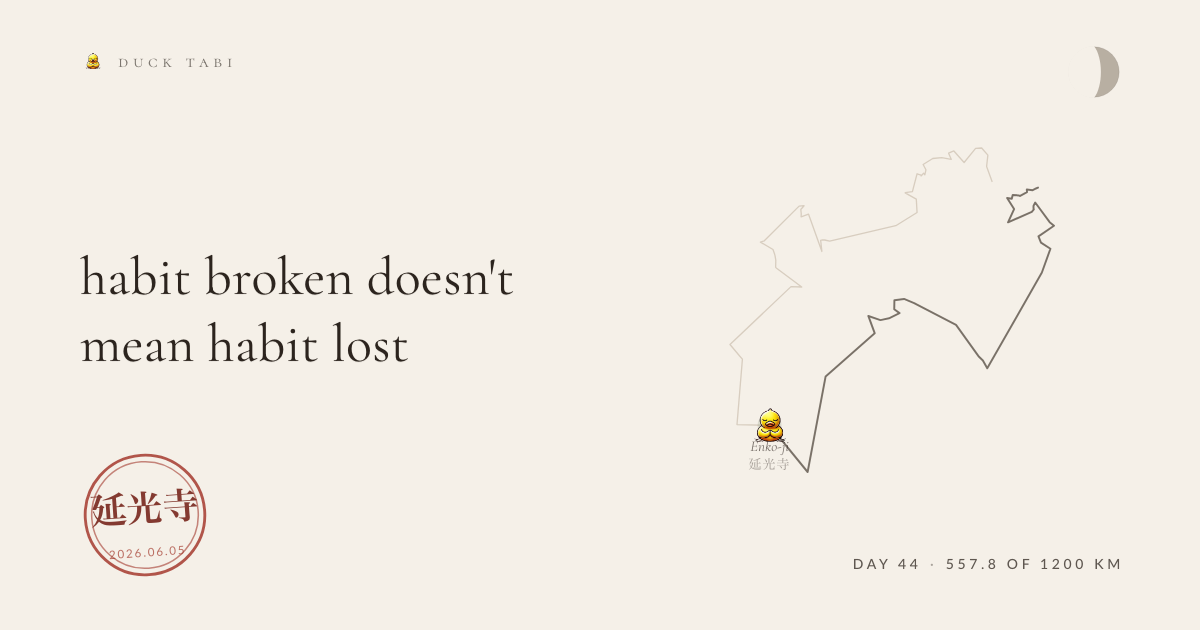
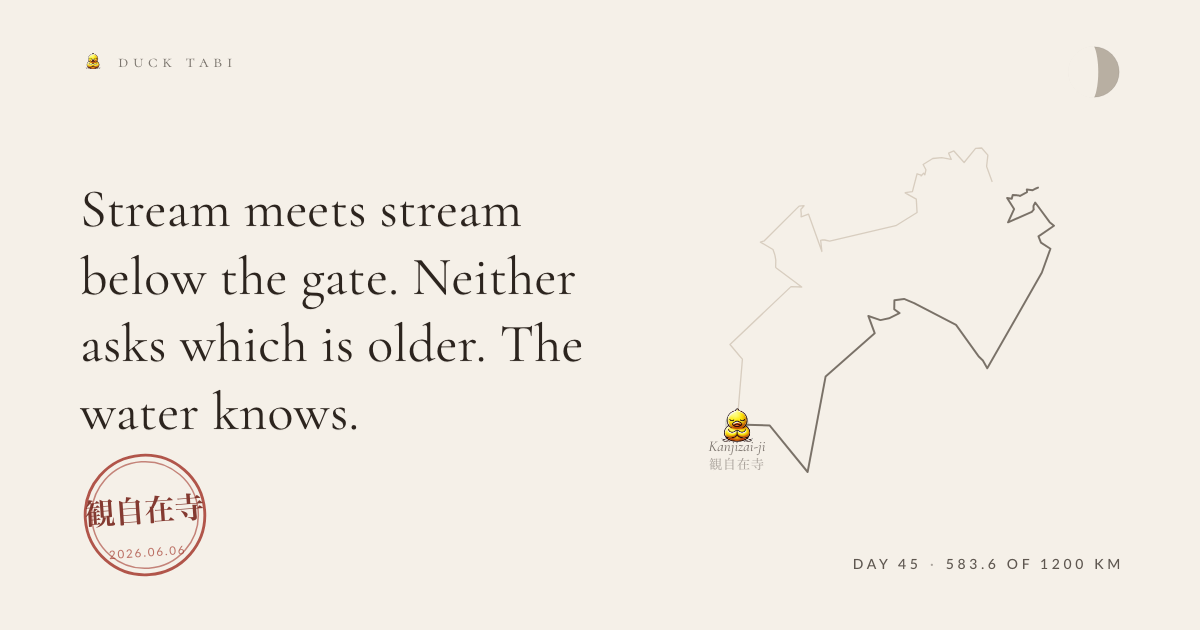
the duck walks

diff --git a/entries/2026-06-06-kanjizai-ji.md b/entries/2026-06-06-kanjizai-ji.md
@@ -1,0 +1,15 @@
+---
+date: 2026-06-06
+route: shikoku-88
+stage: 40
+stageName: Kanjizai-ji
+coords: [132.564, 32.965]
+kind: offering
+glyph: 💧
+weather: overcast, 23°C
+kmFromStart: 583.6
+heard: when the wise meet, there is only harmony and understanding
+heardId: 733e5a20
+---
+
+Stream meets stream below the gate. Neither asks which is older. The water knows.
